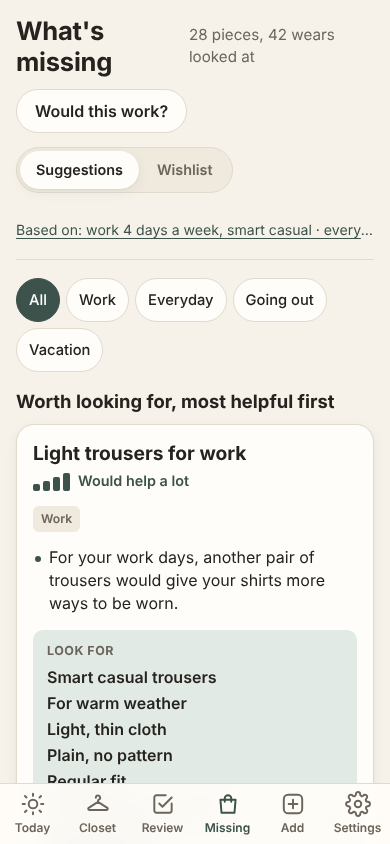
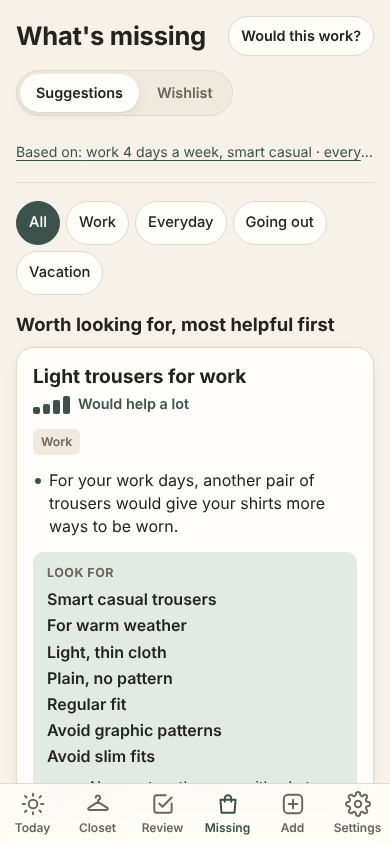
On a phone, What's missing puts its title and "Would this work?" on one row
With the new button on a row of its own, the first suggestion's reason no longer
fitted above the bottom bar on the ci machine (it did here by 27 px, where fonts
are narrower). The count of pieces and wears is left out on a phone and the
button is a size smaller, which leaves over 100 px.

Claude-Session: https://claude.ai/code/session_015h2NbREUgtZ4JAVWqres6b

diff --git a/frontend/src/screens/Missing.css b/frontend/src/screens/Missing.css
@@ -3,6 +3,12 @@
 .missing { max-width: 84rem; min-width: 0; }
 .missing-main { min-width: 0; max-width: 56rem; }
 .missing-header { margin-bottom: 10px; }
+/* On a phone the title and "Would this work?" share one row, so the first suggestion starts higher up:
+   the count of pieces and wears is left out there and the button is a size smaller. */
+@media (max-width: 699px) {
+  .missing-header .count { display: none; }
+  .missing-header .btn { min-height: 40px; padding: 0 12px; font-size: 0.9rem; white-space: nowrap; }
+}
 .missing-asking { display: inline-flex; align-items: center; gap: 6px; font-size: 0.9rem; }
 .missing-tabs { margin-bottom: 14px; }
 .missing-saved { align-items: center; }
